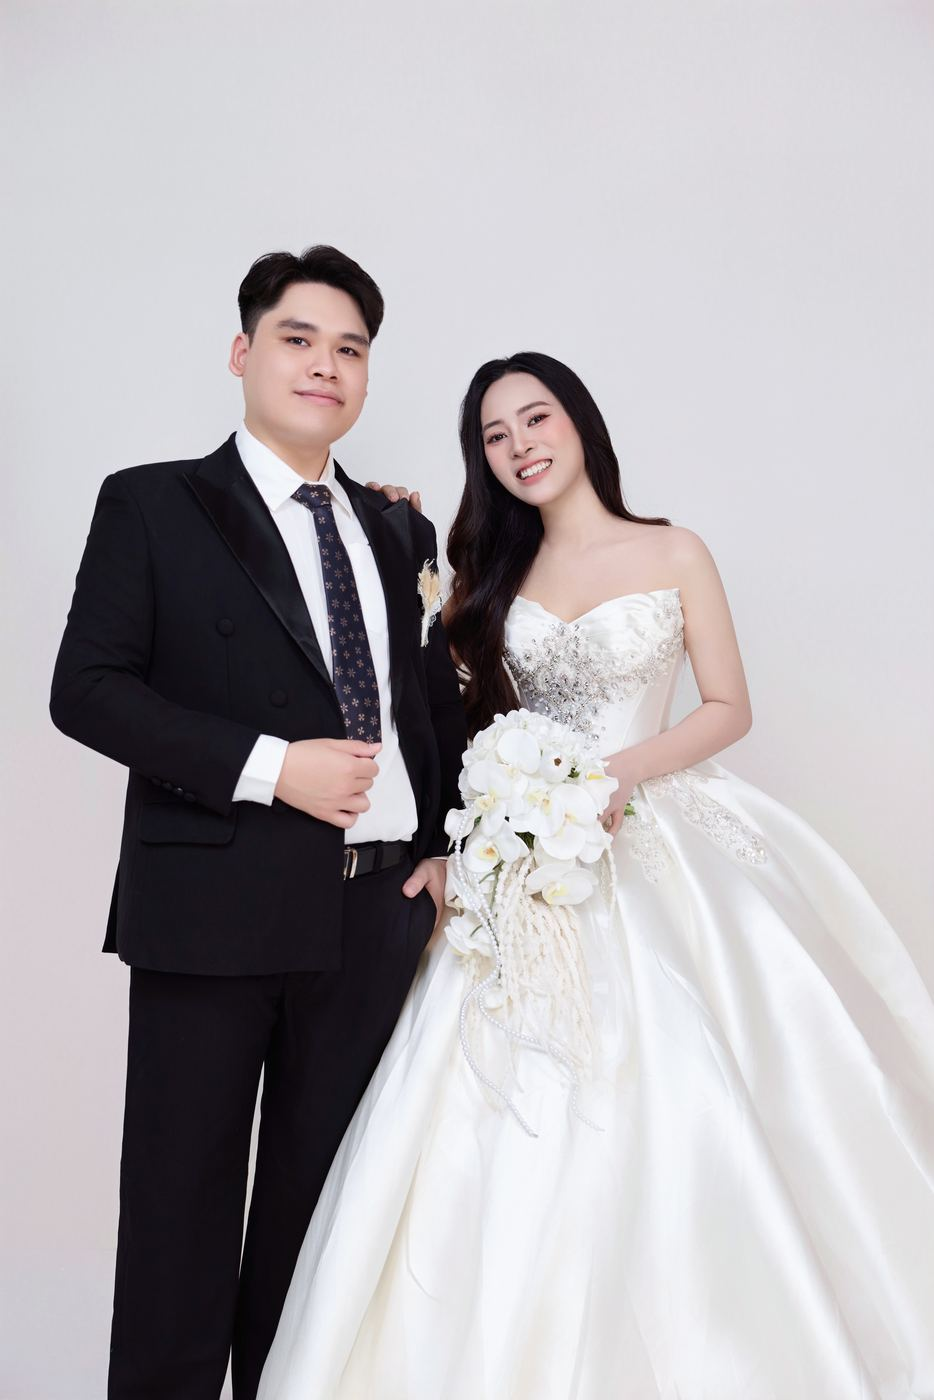
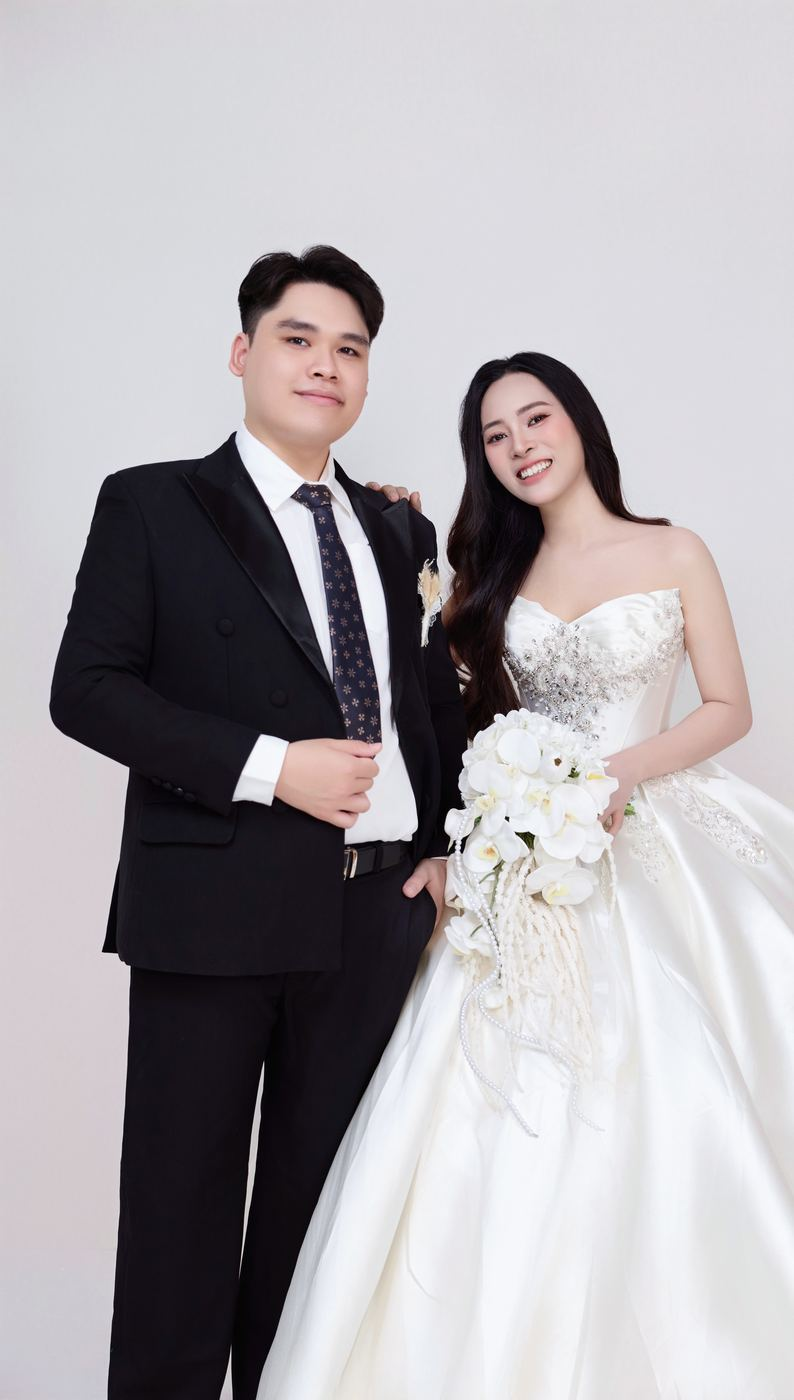
Ảnh bìa: cắt bớt nền bên phải ảnh 3882 để hai người vào giữa khung
Claude-Session: https://claude.ai/code/session_013oSfTHRkbAXp6xpsoK4V9D

diff --git a/index.html b/index.html
@@ -32,7 +32,7 @@
   <link rel="preconnect" href="https://fonts.googleapis.com" />
   <link rel="preconnect" href="https://fonts.gstatic.com" crossorigin />
   <link href="https://fonts.googleapis.com/css2?family=Dancing+Script:wght@500;700&family=Playfair+Display:ital,wght@0,400;0,600;1,400&family=Be+Vietnam+Pro:wght@300;400;500;600&display=swap" rel="stylesheet" />
-  <link rel="preload" as="image" href="images/cover.jpg?v=2" fetchpriority="high" />
+  <link rel="preload" as="image" href="images/cover.jpg?v=3" fetchpriority="high" />
   <link rel="stylesheet" href="assets/css/style.css?v=13" />
 </head>
 <body class="locked">
@@ -162,7 +162,7 @@
   </div>
 
   <!-- Đổi số v=... mỗi khi sửa CSS/JS để trình duyệt tải bản mới -->
-  <script src="assets/js/config.js?v=14"></script>
+  <script src="assets/js/config.js?v=15"></script>
   <script src="assets/js/main.js?v=12"></script>
 </body>
 </html>

diff --git a/assets/js/config.js b/assets/js/config.js
@@ -96,7 +96,7 @@ window.WEDDING = {
    * Gợi ý nhóm ảnh nằm ở cuối mỗi dòng (xem thêm images/README.md).
    */
   photos: {
-    cover: "images/cover.jpg?v=2",           // 01 Toàn thân - Đứng (dọc)
+    cover: "images/cover.jpg?v=3",           // 01 Toàn thân - Đứng (dọc)
     portrait: "images/portrait.jpg?v=2",     // 03 Bán thân - Chính diện (dọc), khung vòm "Mãi bên nhau"
     couple: "images/couple.jpg",         // 02 Toàn thân - Tương tác (ngang), mở đầu album
     calendarBg: "images/detail.jpg",     // 09 Phông nền - Chi tiết, nền mờ sau lịch
